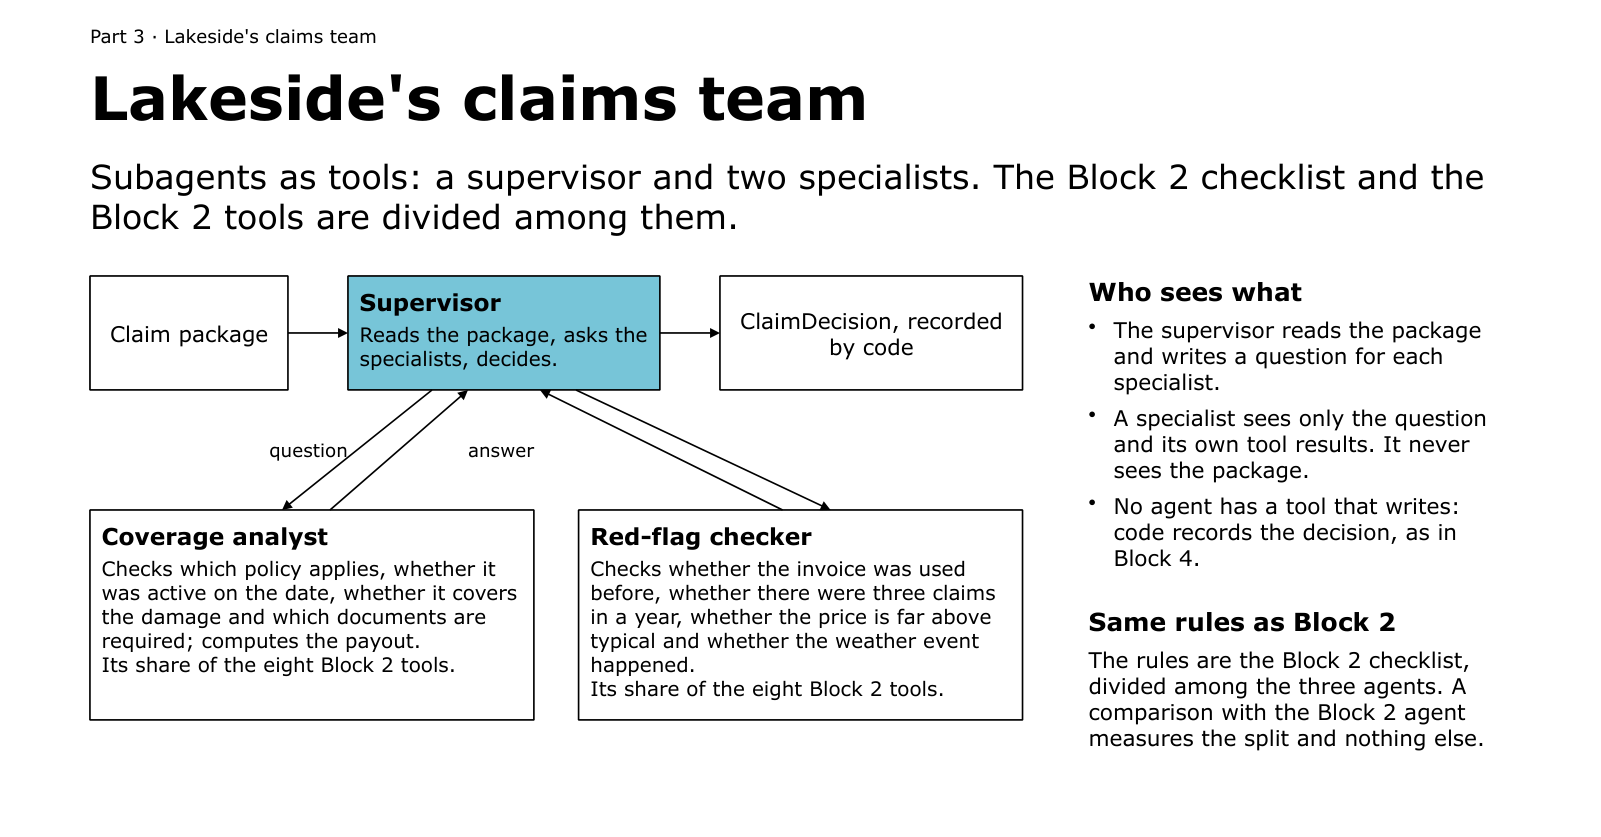
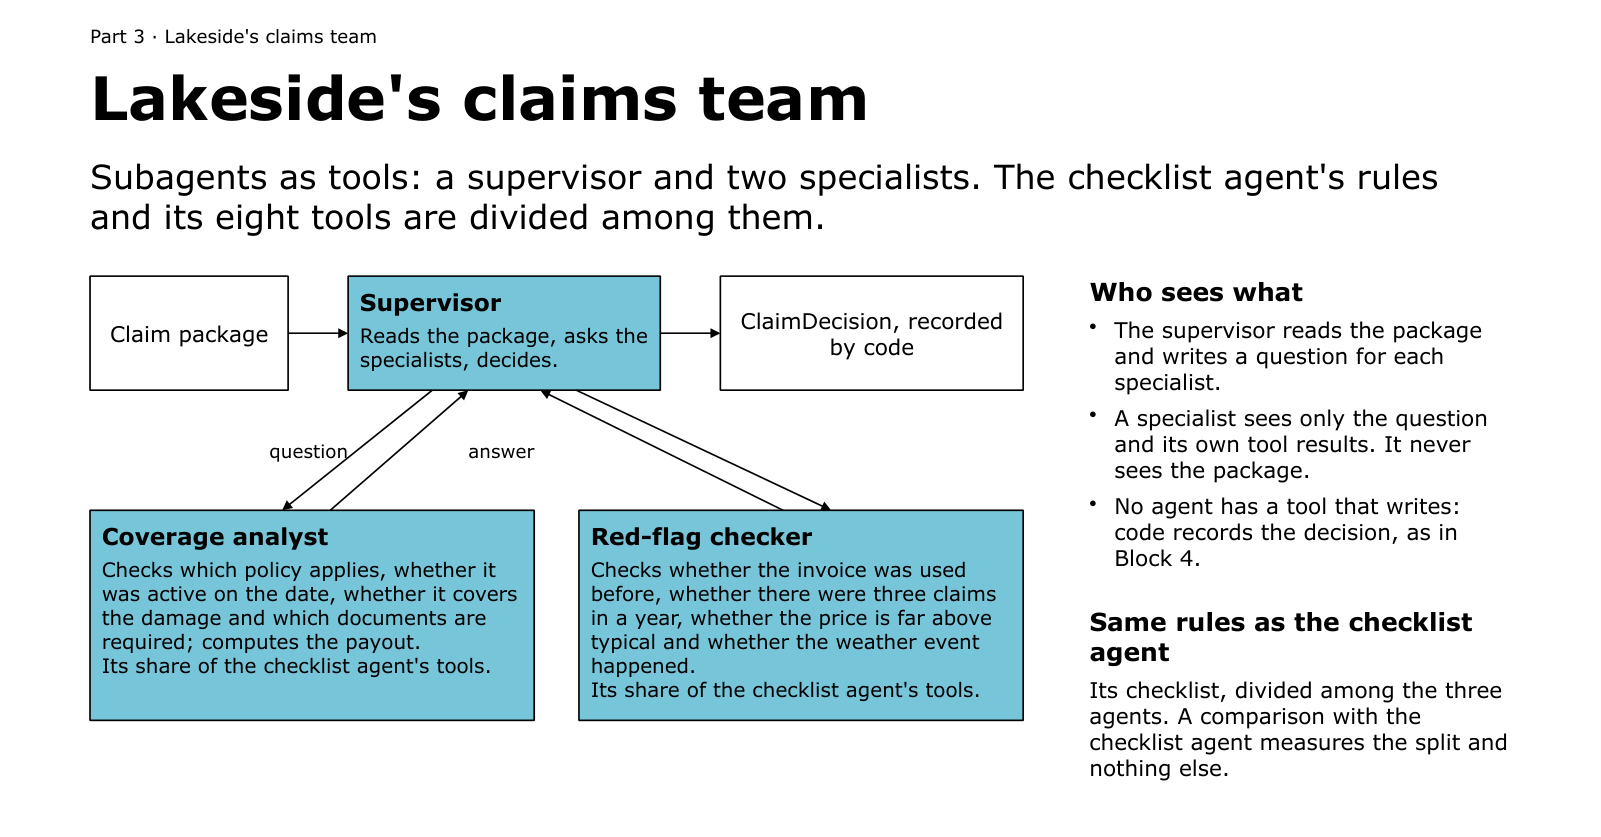
claims-lab: figure captions and figures follow the new slide numbers

diff --git a/claims-lab/src/claims_lab/course.py b/claims-lab/src/claims_lab/course.py
@@ -242,7 +242,7 @@ EVIDENCE = {
         "Several policies (one event)": "Over two runs on 3 such claims (14 policy decisions), one agent and the "
                                         "product-line team each decided 9 right, with 4 and 5 unsafe approvals; the "
                                         "pipeline per part decided all 7 of its run right, by rule."},
-    # Block 6: the answer to the COO, one line per kind of claim (slide 96).
+    # Block 6: the answer to the COO, one line per kind of claim (slide 97).
     6: {"Routine and complete": "Answer: the pipeline. Code checks the rules and computes the payout; no agent needed.",
         "Incomplete": "Answer: a rule asks the customer (request_info), and the letter loop writes to them; with a person "
                       "on the line, the server can ask (elicitation).",
@@ -405,8 +405,8 @@ FIGURES = {"the_day": "The day: six blocks, one growing system (slide 4)",
            "agent_loop": "The agent loop (slide 21)",
            "mcp_architecture": "Host, client and server (slide 51)",
            "hybrid_pipeline": "The hybrid pipeline (slide 69)",
-           "claims_team": "Lakeside's claims team (slide 84)",
-           "storm_claim": "The storm claim: one storm, three policies (slide 88)"}
+           "claims_team": "Lakeside's claims team (slide 86)",
+           "storm_claim": "The storm claim: one storm, three policies (slide 81)"}
 
 
 def figure(name: str, width: int = 900) -> None:
